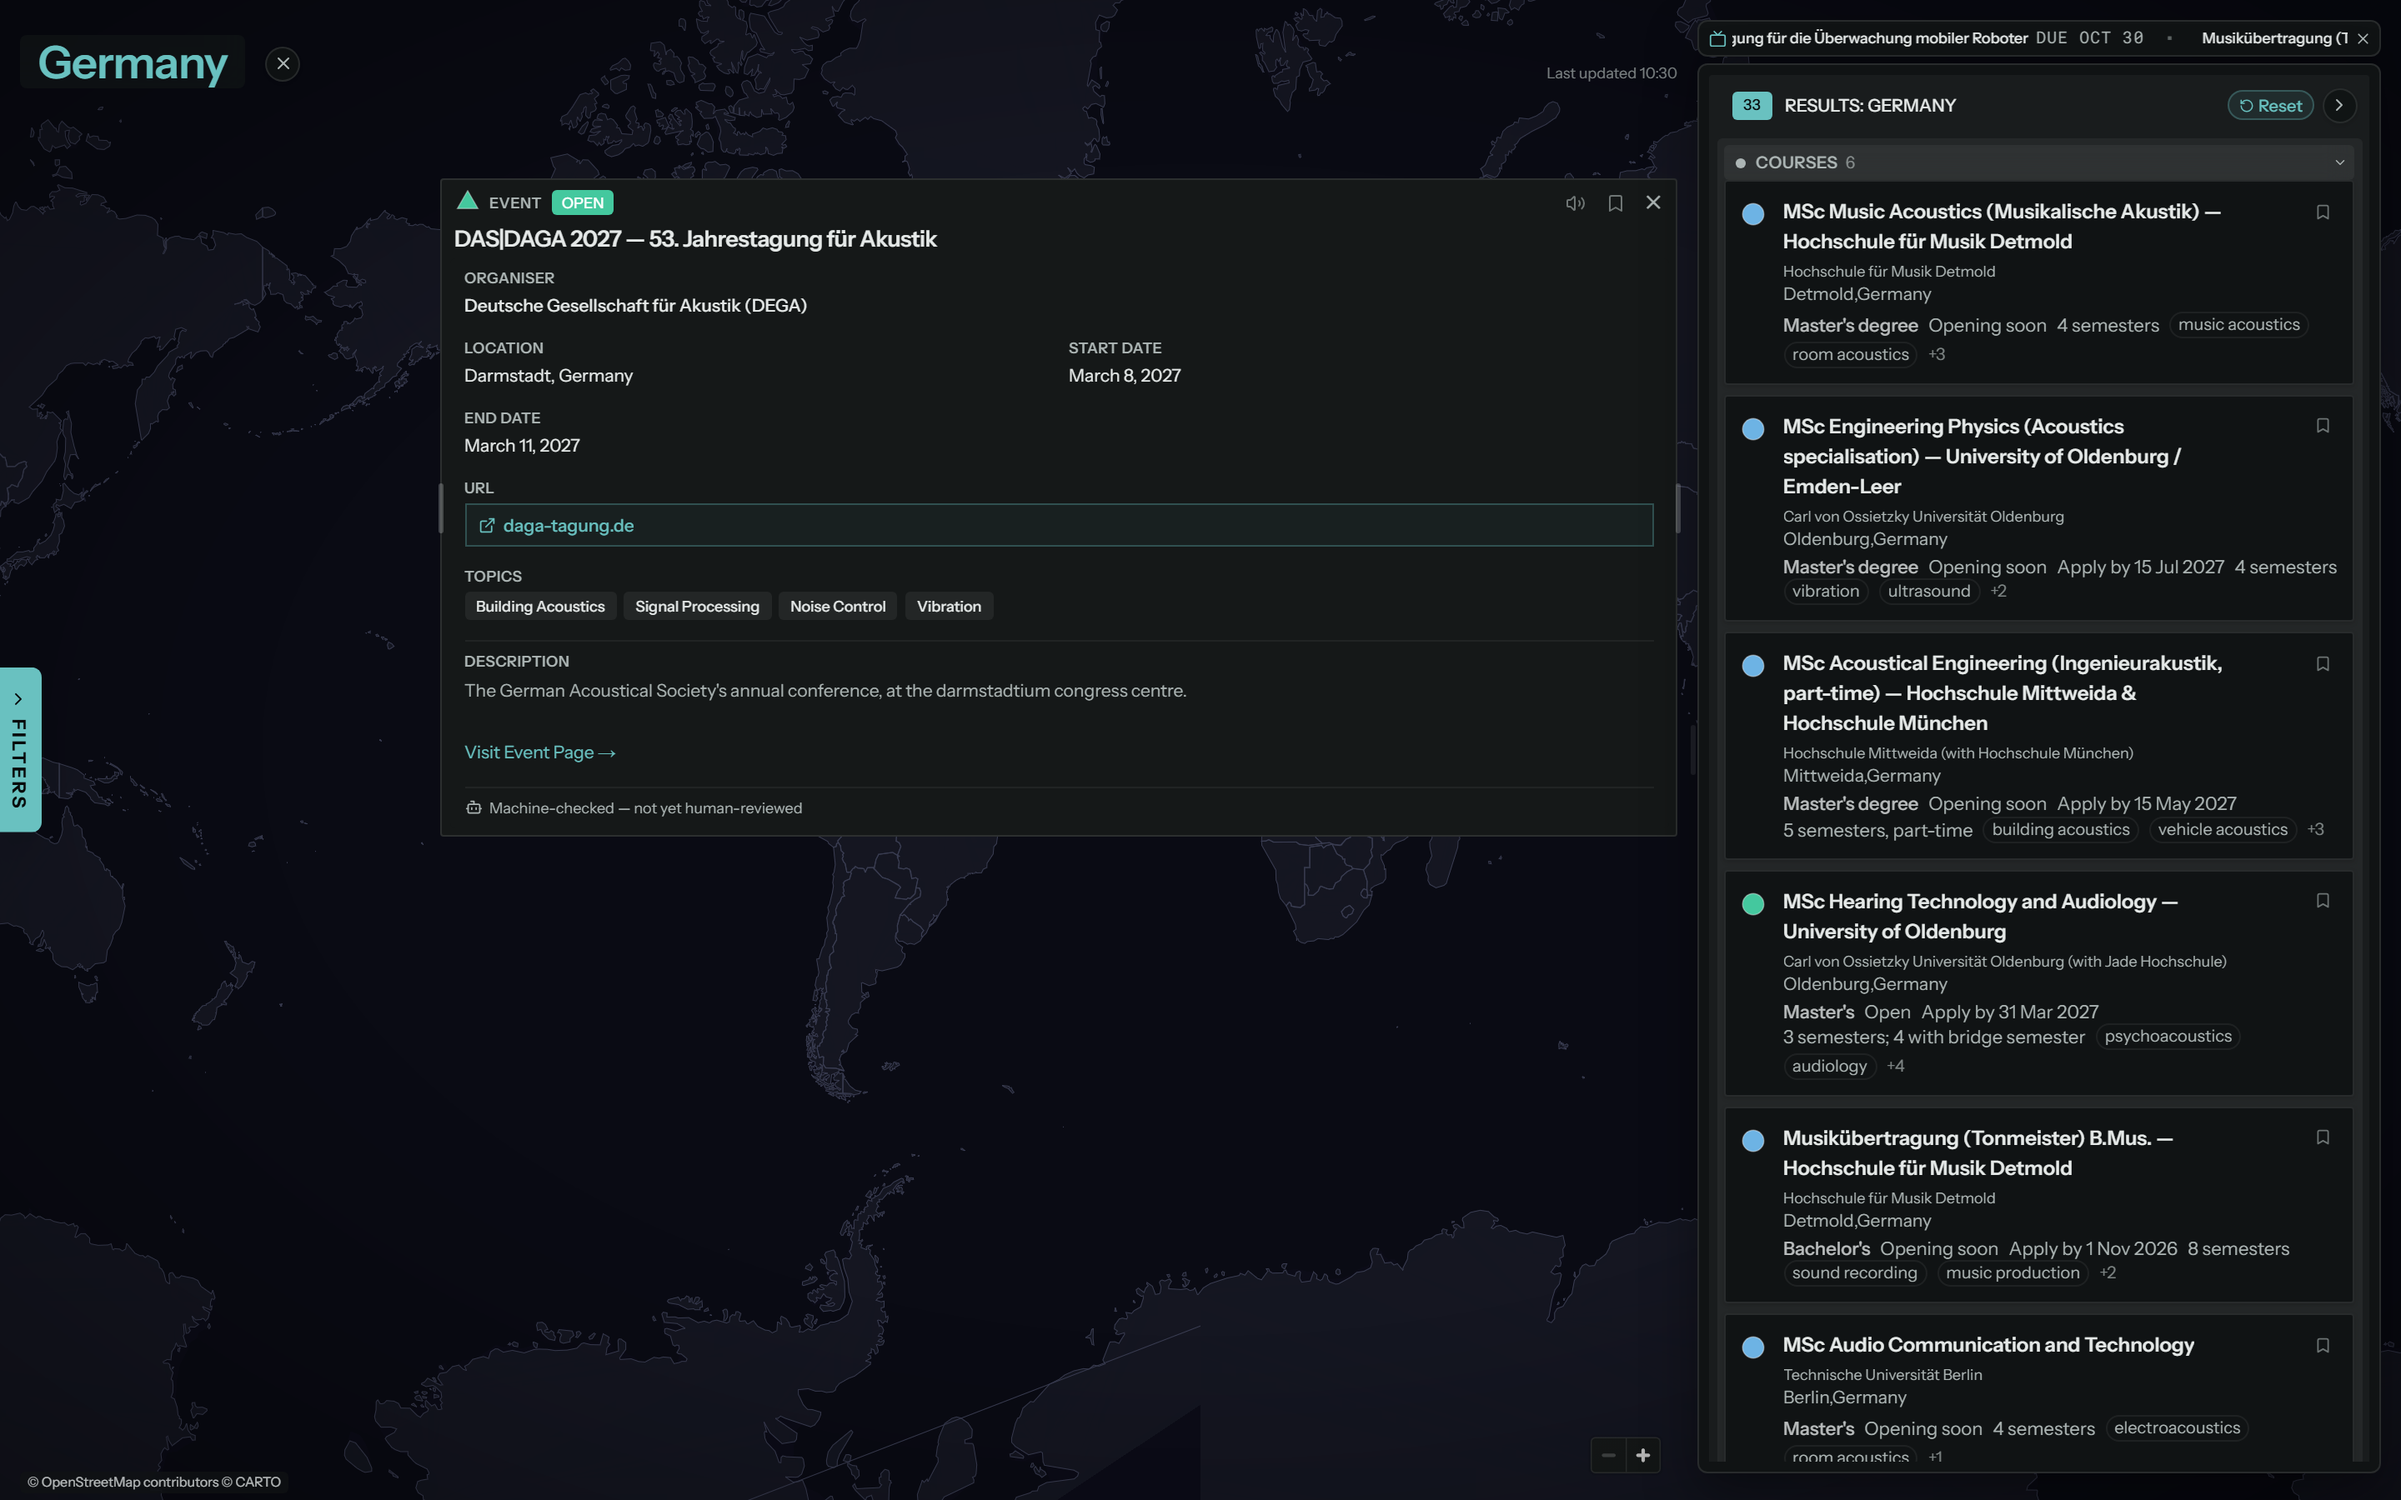
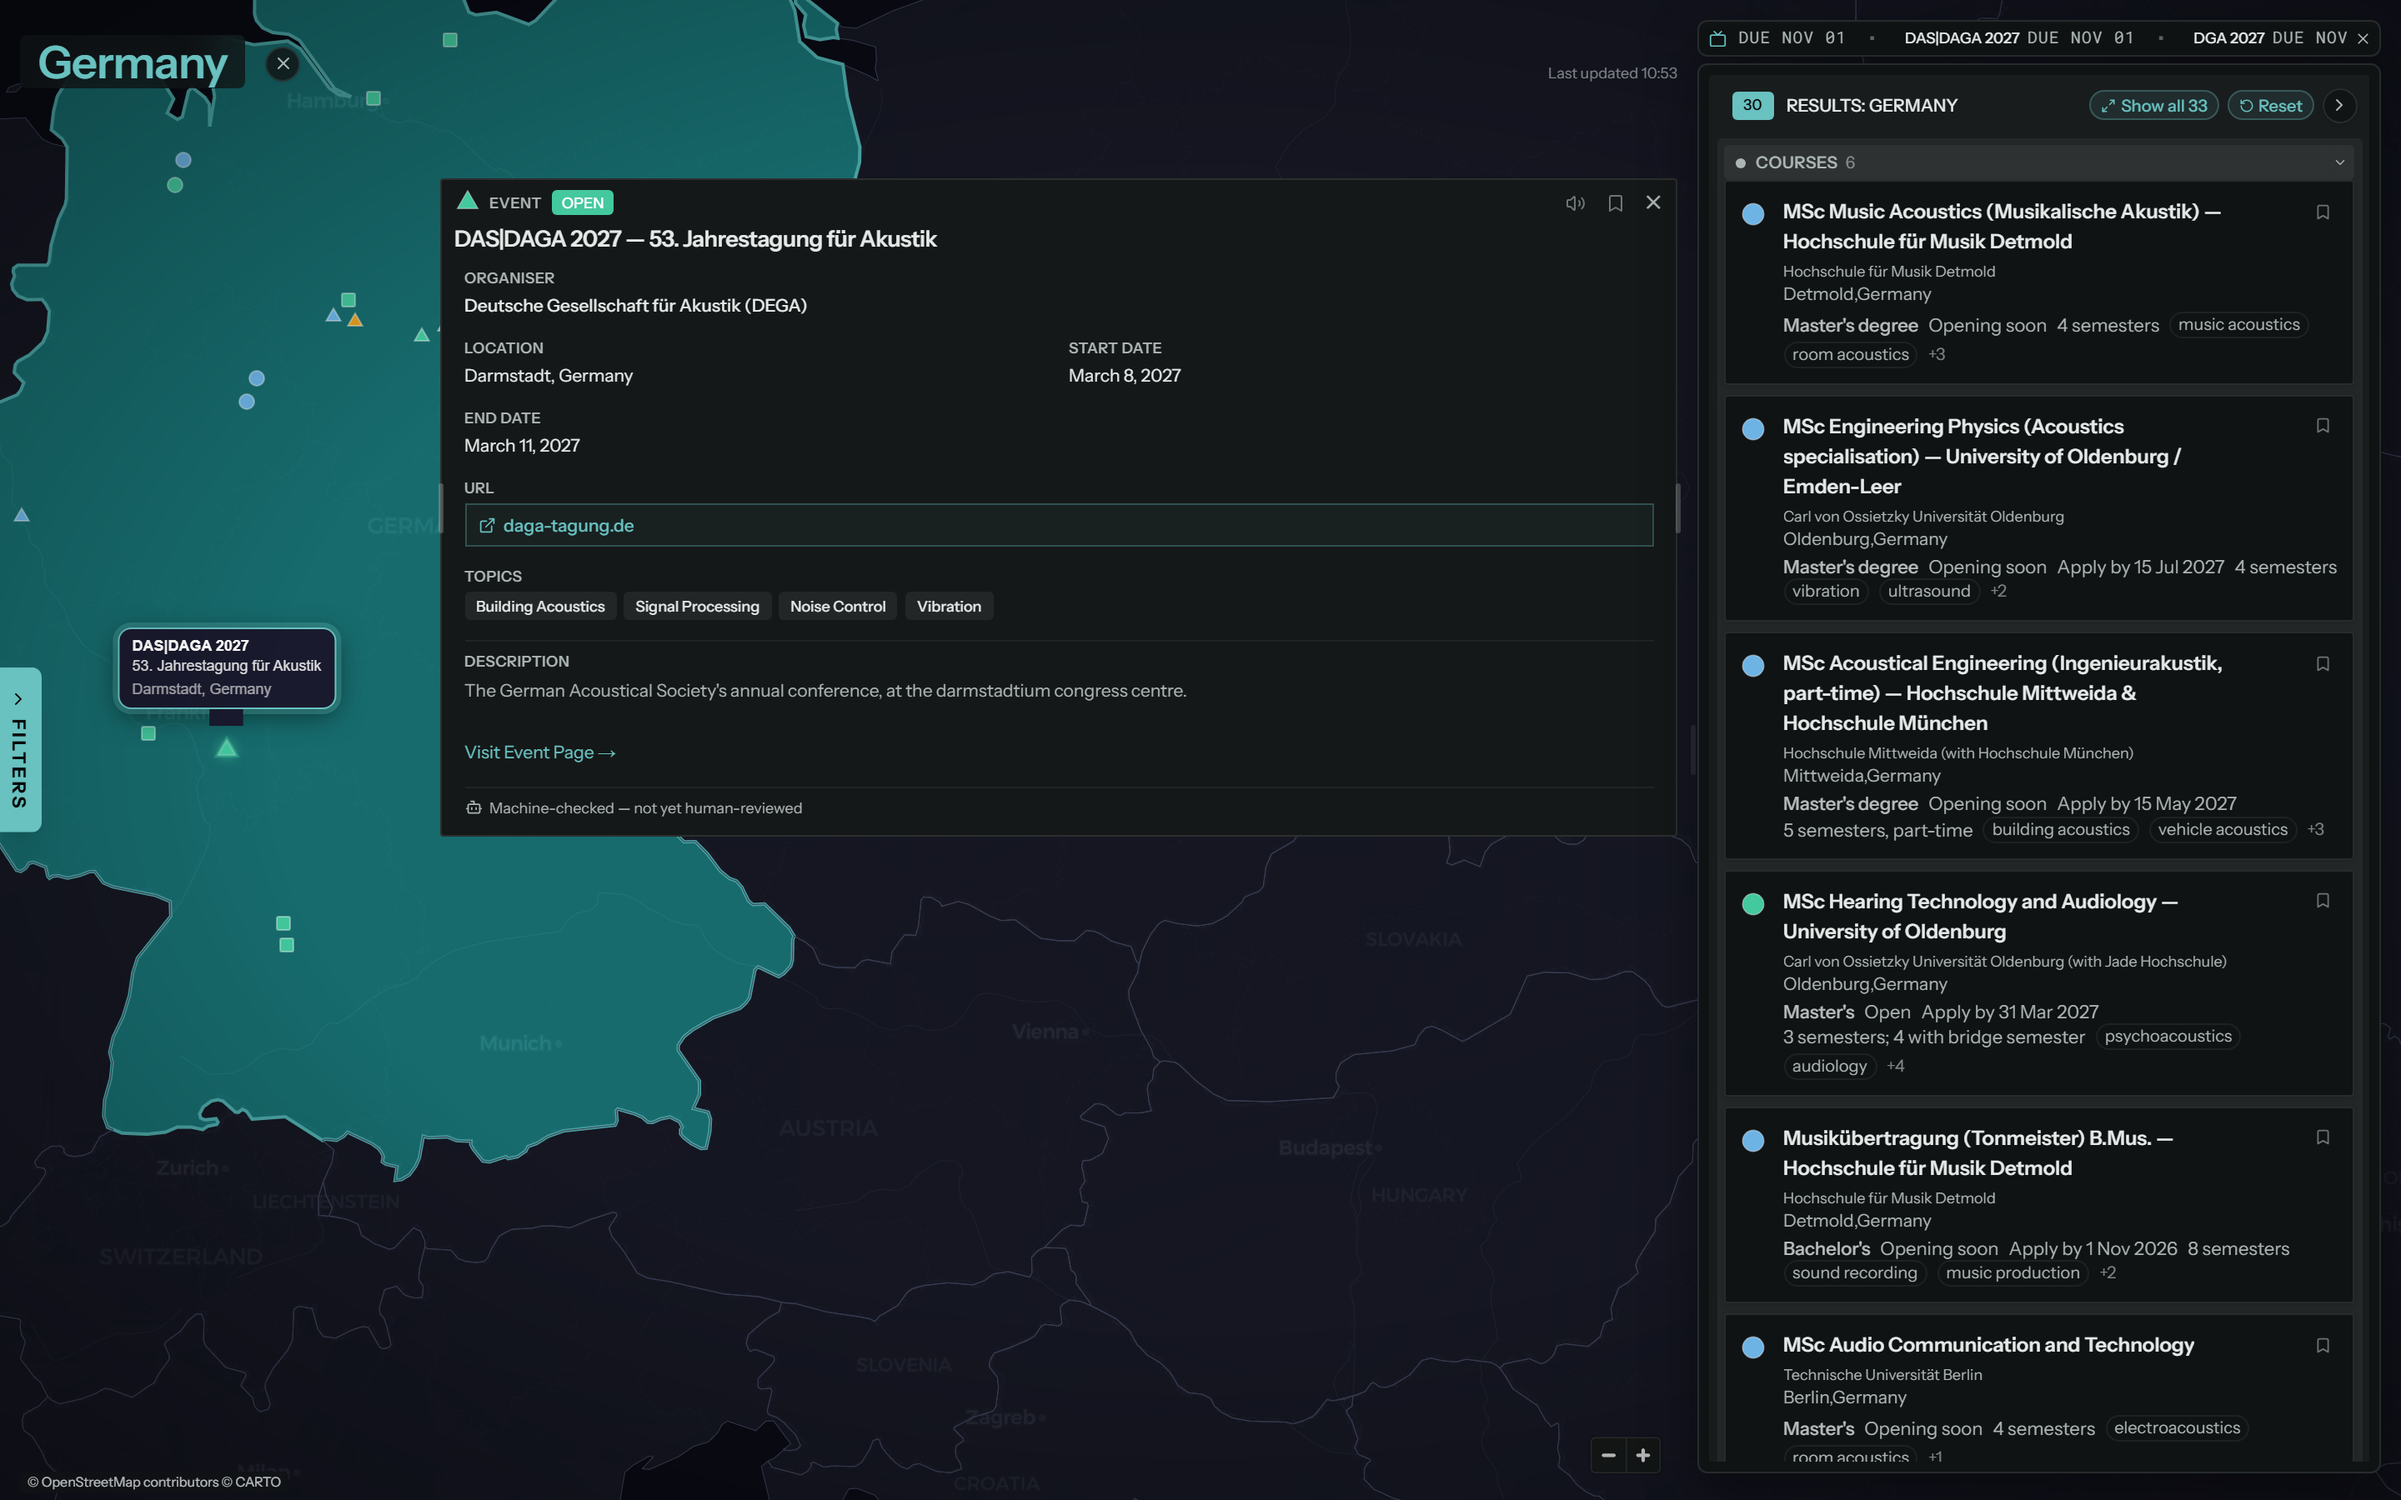
docs: sidebar image back with a walk-through beside it; entry card over Germany

diff --git a/README.md b/README.md
@@ -39,13 +39,46 @@ apart.
 
 ### Narrow it down in one tap
 
-- **Status, type and field**, each chip with a **live count** of what's there.
-- **Nothing selected means everything**; tapping a chip means *show only this*.
-- **Search** for a university, a city or a topic, and matches become removable chips. Tapping
-  a topic on any card adds it as a filter too.
-- **Sort** by newest, by deadline, A–Z, or keep only the funded ones.
+<img src="screenshots/filters.png" align="right" width="280" alt="The filters sidebar: search, status, type, fields and sort, each chip with a live count">
 
-![Full-time jobs in audio and electroacoustics, filtered in two taps](screenshots/filters.png)
+The sidebar reads top to bottom, and every chip carries a **live count** of what it would
+show. Nothing selected means everything; tapping a chip means *show only this*.
+
+**Search.** Type a university, a city, a congress or a topic. Matches turn into removable
+chips, and tapping a topic on any card adds it as a filter too.
+
+**Status.** *Soon*, *open* or *closed*, worked out from the dates every time you load the
+page, so it's never stale. Each status has its own colour on the map, and it's always
+written as a word too.
+
+**Type.** Three families, each split the way people actually search:
+
+- **Courses**: undergraduate, master's, PhD, postdoc and certificates
+- **Events**: symposia, congresses, conferences, workshops and webinars
+- **Jobs**: full-time, part-time, contract, temporary, internships and student jobs
+
+**Fields.** Ten areas of acoustics: building & room, noise & environment, vibration &
+structures, audio & electroacoustics, music & sound production, AI & signal processing,
+communication & speech, psychoacoustics & perception, bio & underwater, and physical &
+computational. Pick one or several.
+
+**Sort.** Newest first, closest deadline, or A–Z, and **Funded** keeps only the
+opportunities with funding we've found.
+
+**Fit map to results** frames whatever is left, and **Save all** puts the whole search into
+your list in one tap (more on that [below](#keep-your-own-list-no-account-needed)).
+
+**Reset** brings everything back in one tap: chips, search terms and the selected country
+together. Your choices are remembered on this device, so the map opens the way you left it.
+
+**The Map tab** holds the legend, and the legend is a filter too: hide a category or a
+status straight from it, or turn the markers off to see the countries underneath. It's also
+where you switch between light and dark and pick one of the seven skins.
+
+**Submit an opportunity** sits at the bottom, one tap away from wherever you are, and it
+needs no account either.
+
+<br clear="right">
 
 ### Open an entry and the map follows
 
